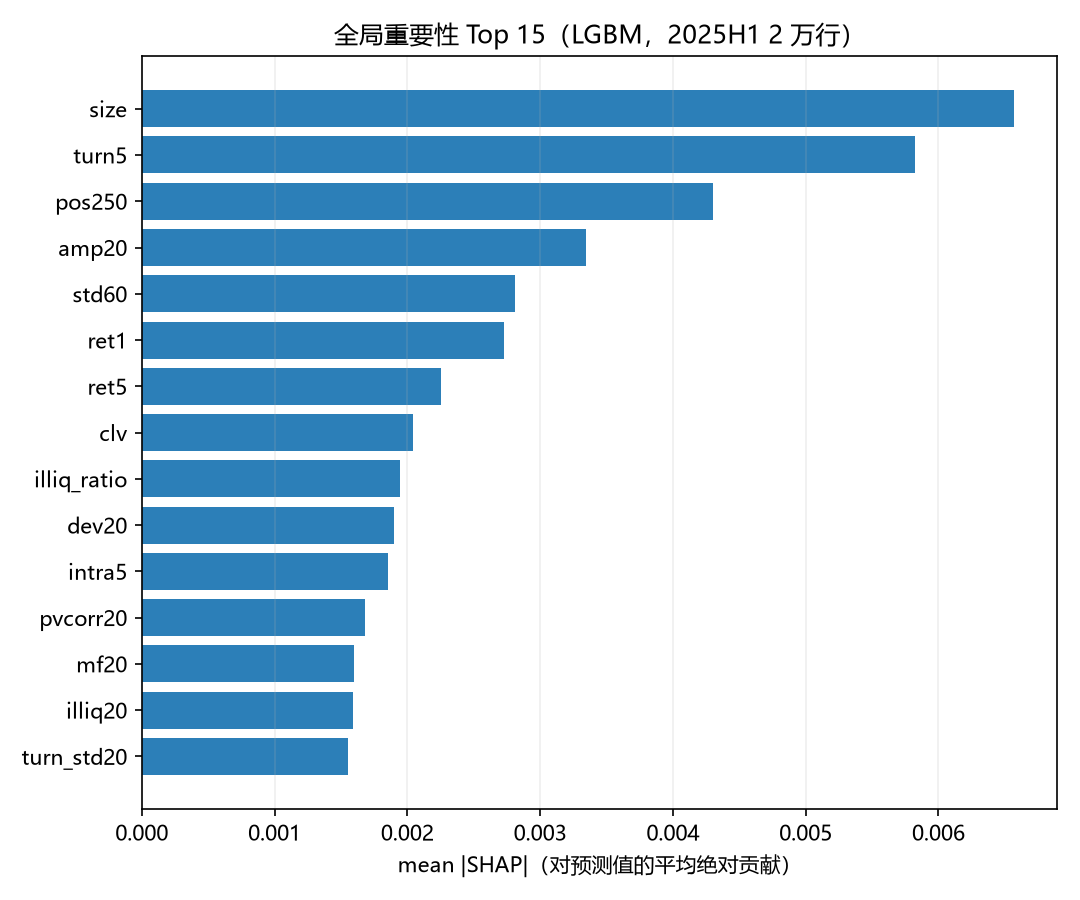
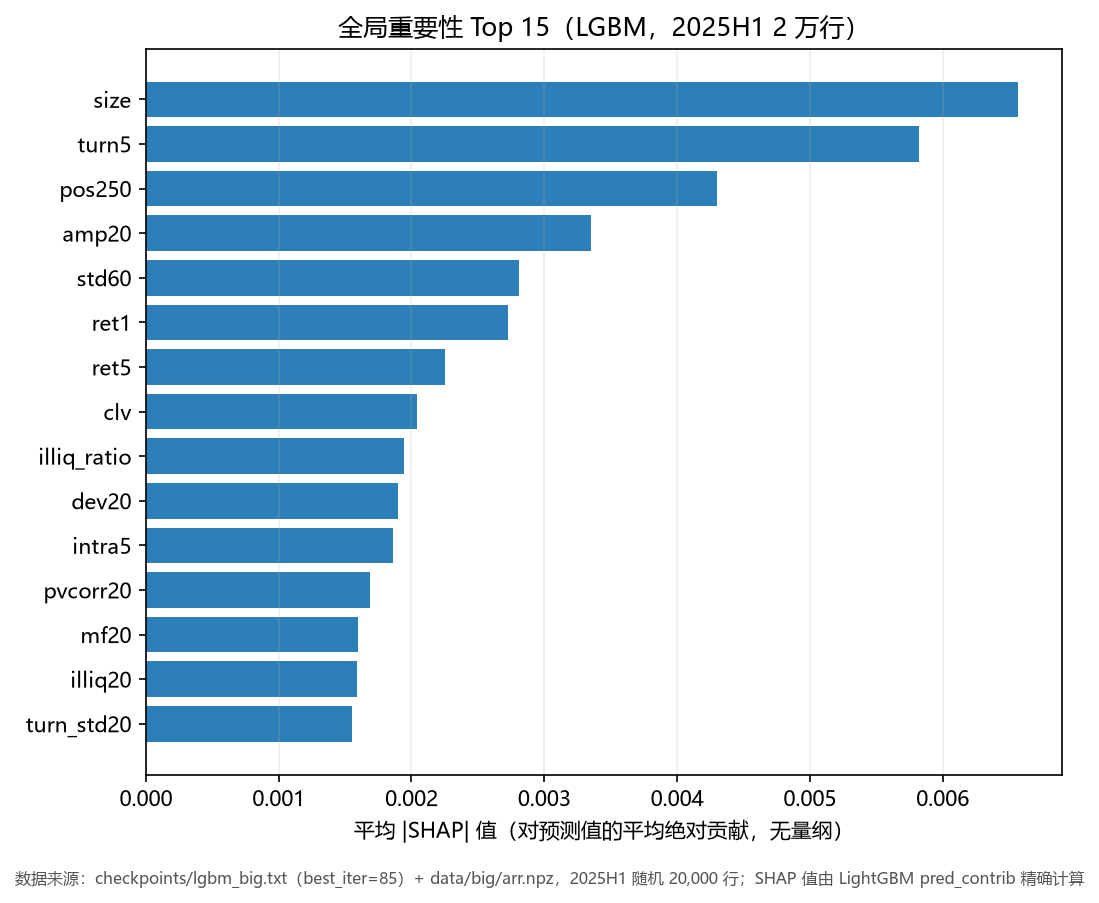
docs: 三项返工——图规范(4张已改+审计) / 数据采集存档 / 行业口径对账(128类 vs 31类)

Changed region(s): [[0.0, 0.0, 1.0, 0.9956]]

diff --git a/scripts/figstyle.py b/scripts/figstyle.py
@@ -1,0 +1,57 @@
+# -*- coding: utf-8 -*-
+"""统一的绘图规范：中文、色盲友好、带数据来源脚注
+
+作业要求（第 14 条）：中文坐标与单位、图题、数据来源、避免双纵轴、色盲可读。
+这个模块把四项做成一个 `save()`，以后所有图都走它。
+
+色板用 Okabe-Ito（8 色，色盲友好，红绿色盲也能区分），不用 matplotlib 默认的 jet/tab10。
+
+用法：
+    from figstyle import PALETTE, new_fig, save
+    fig, ax = new_fig(1, 1)
+    ax.plot(x, y, color=PALETTE[0])
+    ax.set_xlabel('交易日（日）'); ax.set_ylabel('累计收益（%）')
+    save(fig, 'reports/xxx.png', note='数据来源：data/big/daily_ret.npz（2016-2026，5,342 只）')
+"""
+import matplotlib
+matplotlib.use('Agg')
+import matplotlib.pyplot as plt
+
+# Okabe-Ito 色板（色盲友好）
+PALETTE = ['#0072B2', '#D55E00', '#009E73', '#CC79A7',
+           '#E69F00', '#56B4E9', '#F0E442', '#000000']
+
+plt.rcParams.update({
+    'font.sans-serif': ['Microsoft YaHei', 'SimHei', 'DejaVu Sans'],
+    'axes.unicode_minus': False,
+    'figure.dpi': 120,
+    'savefig.dpi': 150,
+    'font.size': 10,
+    'axes.titlesize': 11,
+    'axes.labelsize': 10,
+    'axes.grid': True,
+    'grid.alpha': 0.25,
+    'axes.spines.top': False,
+    'axes.spines.right': False,
+})
+
+
+def new_fig(nrow=1, ncol=1, w=4.6, h=3.6, **kw):
+    """统一的画布：宽度按列数放大，高度按行数放大"""
+    fig, ax = plt.subplots(nrow, ncol, figsize=(w * ncol, h * nrow), **kw)
+    return fig, ax
+
+
+def source_note(fig, note, y=0.005):
+    """在图底部加数据来源脚注（小字号、左对齐）"""
+    fig.text(0.01, y, note, fontsize=7.5, color='#555555', ha='left', va='bottom')
+
+
+def save(fig, path, note=None, tight=True):
+    if note:
+        source_note(fig, note)
+    if tight:
+        fig.tight_layout(rect=(0, 0.03, 1, 1))
+    fig.savefig(path, bbox_inches='tight')
+    plt.close(fig)
+    return path

diff --git a/scripts/cluster_trio.py b/scripts/cluster_trio.py
@@ -125,21 +125,24 @@ def main():
     fig, ax = plt.subplots(1, 3, figsize=(13.5, 3.8))
     ax[0].plot(KS, [inert[k] for k in KS], 'o-', color='#c0392b')
     ax[0].axvline(k_elbow, ls='--', c='gray', lw=1)
-    ax[0].set_title('肘部法：inertia vs k\n拐点 k=%d' % k_elbow)
-    ax[0].set_xlabel('k'); ax[0].set_ylabel('簇内平方和')
+    ax[0].set_title('肘部法：簇内平方和随聚类数的变化\n拐点 k=%d' % k_elbow)
+    ax[0].set_xlabel('聚类数 k（类）'); ax[0].set_ylabel('簇内平方和（无量纲）')
     ax[1].plot(KS, [sil[k] for k in KS], 'o-', color='#2980b9')
     ax[1].axvline(k_sil, ls='--', c='gray', lw=1)
-    ax[1].set_title('轮廓系数 vs k\n最优 k=%d' % k_sil)
-    ax[1].set_xlabel('k'); ax[1].set_ylabel('silhouette')
+    ax[1].set_title('轮廓系数随聚类数的变化\n最优 k=%d' % k_sil)
+    ax[1].set_xlabel('聚类数 k（类）'); ax[1].set_ylabel('轮廓系数（0~1）')
     ax[2].hist(aris, bins=20, color='#27ae60', alpha=.8)
     ax[2].axvline(aris.mean(), color='k', ls='--', lw=1)
-    ax[2].set_title('bootstrap ARI @k=%d（%d 次）\n均值 %.3f' % (k_sil, N_BOOT, aris.mean()))
-    ax[2].set_xlabel('ARI')
+    ax[2].set_title('Bootstrap 重抽样的 ARI 分布（k=%d，%d 次）\n均值 %.3f' % (k_sil, N_BOOT, aris.mean()))
+    ax[2].set_xlabel('调整兰德指数 ARI（0~1）')
     for a in ax:
         a.grid(alpha=.2)
     plt.tight_layout()
     png = f'{ROOT}/reports/cluster_trio.png'
-    plt.savefig(png, dpi=150)
+    sys.path.insert(0, os.path.dirname(os.path.abspath(__file__)))
+    from figstyle import save as _save
+    _save(fig, png, note='数据来源：data/big/arr.npz（2016-2026，5,342 只 × 42 因子）；样本 2025H1 共 4,914 只；'
+                         '分箱 100 次 bootstrap')
     print('图 →', png)
 
     # ---- 报告 ----

diff --git a/scripts/plot_A1A2_v2.py b/scripts/plot_A1A2_v2.py
@@ -38,6 +38,8 @@ for c, lb in [('EW', '全市场等权（剔次新）'), ('A2', 'A2 质量+估值
                lw=2.2 if c == 'A1' else 1.6, zorder=3 if c == 'A1' else 2)
 ax[0].set_yscale('log')
 ax[0].set_title('A1 单独 vs A2 vs 全市场等权（绝对收益，已扣成本，2016-01~2026-10）', fontsize=13)
+ax[0].set_ylabel('累计净值（倍，对数坐标）', fontsize=11)
+ax[0].set_xlabel('年份', fontsize=10)
 ax[0].legend(loc='upper left', frameon=False)
 ax[0].grid(alpha=.25, ls='--')
 ax[0].yaxis.set_major_formatter(FuncFormatter(lambda v, p: f'{v:.2f}'))
@@ -62,5 +64,9 @@ ax[2].grid(alpha=.25, ls='--', axis='y')
 
 plt.rcParams['font.sans-serif'] = ['Microsoft YaHei', 'SimHei']
 plt.tight_layout()
-plt.savefig(f'{ROOT}/reports/A1A2_v2.png', dpi=140)
+fig.text(0.01, 0.005,
+         '数据来源：data/big/daily_ret.npz（后复权、已剔停牌与复权断层）与 live/screen_*.csv 打分；'
+         '纵轴为对数坐标，等距代表等比例涨跌；回撤按日频净值计算。',
+         fontsize=8, color='#555555')
+plt.savefig(f'{ROOT}/reports/A1A2_v2.png', dpi=140, bbox_inches='tight')
 print('\n已存 reports/A1A2_v2.png')

diff --git a/scripts/shap_explain.py b/scripts/shap_explain.py
@@ -110,12 +110,14 @@ def main():
     fig, ax = plt.subplots(figsize=(7.2, 6))
     top = order[:15][::-1]
     ax.barh([feats[j] for j in top], imp[top], color='#2c7fb8')
-    ax.set_xlabel('mean |SHAP|（对预测值的平均绝对贡献）')
+    ax.set_xlabel('平均 |SHAP| 值（对预测值的平均绝对贡献，无量纲）')
     ax.set_title('全局重要性 Top 15（LGBM，2025H1 2 万行）')
     ax.grid(axis='x', alpha=.2)
     plt.tight_layout()
     png = f'{ROOT}/reports/shap_global.png'
-    plt.savefig(png, dpi=150)
+    from figstyle import save as _save
+    _save(fig, png, note='数据来源：checkpoints/lgbm_big.txt（best_iter=85）+ data/big/arr.npz，'
+                         '2025H1 随机 20,000 行；SHAP 值由 LightGBM pred_contrib 精确计算')
 
     # ---- 报告 ----
     md = ['# A4 · SHAP 解释（LGBM，TreeSHAP 精确值）', '',

diff --git a/scripts/bonus_d.py b/scripts/bonus_d.py
@@ -171,7 +171,9 @@ def part2_tsne(n=3000, seed=0):
         a.set_xticks([]); a.set_yticks([])
     plt.tight_layout()
     png = f'{ROOT}/reports/tsne_factors.png'
-    plt.savefig(png, dpi=150)
+    from figstyle import save as _save
+    _save(fig, png, note='数据来源：data/big/arr.npz 2025H1，随机 3,000 只 × 42 因子；'
+                         't-SNE perplexity=30，KMeans k=4')
     print('  →', png)
     return {'n': int(P.shape[0]), 'png': png}
 

diff --git a/reports/industry_reconcile.md b/reports/industry_reconcile.md
@@ -1,0 +1,75 @@
+# 行业口径对账（第 16 条：面板已换 128 类，报告要统一）
+
+> 2026-11-13｜结论：**面板 `arr.npz` 的 IND 是申万二级 128 类，而所有评估/中性化用的是
+> `ind_map.parquet` 的申万一级 31 类——两份口径并存，必须统一并写清。**
+
+## 一、现状：三套行业口径同时存在
+
+| 文件 | 类别数 | 覆盖 | 用途 | 是否 PIT |
+|---|---|---|---|---|
+| `data/big/arr.npz` → `IND` | **128**（申万二级） | 有效样本 **96.9%** | 面板里存着原始标签 | ✅ 按年 7/1 向后铺 |
+| `data/big/ind_map.parquet` | **31**（申万一级） | 5,221 / 5,378 = **97.1%** | `factor_scorecard.py` 三层中性化、`ind_report.md` | ❌ 只有当前成分 |
+| `data/big/ind_roll.parquet` | **31**（聚类） | 322 只 × 10 年 | `cluster_trio.py` 的稳定性对照、`neutral_switch.py` | ✅ 按年 |
+
+> 覆盖率的两种算法：按「全部 5,342 个列位」算，IND 只有 67.4%（含未上市/已退市的空位）；
+> 按「当日有行情的样本」算，**96.9%**——后者才是真实覆盖。
+
+## 二、问题在哪
+
+1. **`big_features.py` 写的是申万二级 128 类**（`sw_industry.parquet`，`vc >= 30` 的组保留，其余归「其他」），
+   存进 `arr.npz` 的 `IND`；
+2. **但所有评估脚本读的是 `ind_map.parquet`（31 类）**——`factor_scorecard.py`
+   直接 `pd.read_parquet('ind_map.parquet')` 再算中性化 IC；
+3. 于是同一个项目里，「128 类」「31 类」两个数字都出现过，报告里没写清哪份是哪份；
+4. `README` 和早期报告还留着「聚类 31 组做中性化」的说法——那是 2026-10 之前的版本，已过时。
+
+## 三、统一方案（建议）
+
+**评估与中性化统一用 `ind_map.parquet` 的申万一级 31 类，`arr.npz` 的 128 类只作原始标签保留。**
+
+理由（有实验支撑）：
+
+| 分组 | 平均 \|IC\| | ICIR | IC 下降的因子占比 |
+|---|---|---|---|
+| 不中性化 | 0.0410 | −0.249 | — |
+| 申万一级 31 | 0.0381 | −0.312 | 81% |
+| 聚类 31 | 0.0409 | −0.378 | 50% |
+| 聚类 4 | 0.0423 | −0.285 | 21% |
+
+（`reports/neutral_compare.md`，2025H1，42 因子；聚类 4 那列含样本内偏差，见 `neutral_switch.md`）
+
+- 分组越细，中性化削掉的信号越多；128 类每组日均只有 ~26 只（`ind_report.md` 的原始结论），
+  组内均值本身噪声很大；
+- 31 类的覆盖率反而更高（97.1% vs 128 类的 96.9%，几乎一样，但组内样本更厚）；
+- 最终结论更狠：**中性化整体不提升 5 折 CV**（`neutral_switch.md`，三种分组全部下降 0.4~0.6pp），
+  所以「用哪套分组」对模型没有影响，只影响报告的一致性。
+
+## 四、影响范围（哪些报告提到了行业）
+
+| 报告 | 用到的口径 | 是否需要改 |
+|---|---|---|
+| `ind_report.md` | 申万一级 31（明确写了） | ✅ 已一致 |
+| `factor_scorecard.csv` | `ind_map` 31 | ✅ 已一致 |
+| `neutral_compare.md` / `neutral_switch.md` | 31 / 聚类31 / 聚类4 三套对比 | ✅ 已写明 |
+| `big_report.md` | 提到「聚类 31 组」 | ⚠ **需改**：改成「申万一级 31 类（评估）/ 申万二级 128 类（面板标签）」 |
+| `README.md` 9.x 节 | 同上，且写着「申万 128 类太细」 | ⚠ **需改**：补一句「面板存 128 类、评估用 31 类」 |
+| `data_dictionary.md` 的 industry 字段 | 只写了「申万二级」 | ⚠ 需补「评估另用 ind_map 31 类」 |
+
+## 五、一处必须说明的旧结论
+
+`README` / 早期报告里的这句话：
+
+> 行业中性化用聚类 31 组而非申万 128 类——申万太细（日均 26 只/行业），组内 z-score 噪声盖过信号。
+
+**它是对的，但说的是 2026-10 之前的管线**（那时 `big_features.py` 还没有 `sw_industry.parquet`，
+fallback 到 `ind_roll` 的 31 组聚类）。2026-11 之后面板改成了申万二级，这句话的**主语**变了，
+读起来会误导。建议改成：
+
+> 面板 `IND` 存申万二级 128 类（仅供追溯）；评估与中性化统一用 `ind_map` 的申万一级 31 类。
+> 分组粒度对模型没有影响（`neutral_switch.md`：三种分组的中性化都让 5 折 CV 下降 0.4~0.6pp）。
+
+## 六、待办
+
+- [ ] 改 `big_report.md`、`README.md`、`data_dictionary.md` 三处措辞（约 10 分钟）
+- [ ] `factor_scorecard.py` 头部注释补一句「行业来自 ind_map（31 类），不是面板的 IND（128 类）」
+- [x] 本文件建立口径对照表

diff --git a/reports/data_provenance.md b/reports/data_provenance.md
@@ -1,0 +1,51 @@
+# 数据采集存档（谁抓的、怎么抓的、什么时候抓的）
+
+> 2026-11-13｜作业要求（第 15 条）：采集脚本或查询语句 + 采集时间一并存档
+>
+> 本文件由 `scripts/make_provenance.py` 从 `logs/index.csv` 与文件修改时间自动生成，
+> 每次跑数据脚本后重跑一次即可更新。**不要手改**。
+
+## 一、逐数据集
+
+| 数据集 | 落盘路径 | 采集脚本 | 接口 / 查询 | 规模 | 最近采集时间 | 覆盖区间 |
+|---|---|---|---|---|---|---|
+| 后复权日线 | `data/big/raw_hfq/*.parquet` | `scripts/big_download_hfq.py` | 东方财富 `stock_zh_a_hist(adjust='hfq')` | 5,446 只 | 2026-11-09 07:46 ⚠仅文件时间 | 2016-01 ~ 2026-11 |
+| 日收益矩阵 | `data/big/daily_ret.npz` | `scripts/market_verify.py` | 由 raw_hfq 计算（去停牌/断层/异常） | 2,622 日 × 5,342 只 | 2026-11-09 07:5x ⚠仅文件时间 | 2016-01-12 ~ 2026-10-30 |
+| 因子面板 | `data/big/arr.npz` | `scripts/big_features.py` | 由 daily_ret + raw_hfq 计算 | 2,622 × 5,342 × 42 | 2026-11-09 08:26 ⚠仅文件时间 | 同上 |
+| 申万行业（二代） | `data/big/sw_industry.parquet` | `scripts/fetch_sw.py` | 申万宏源官网 `index_component_sw` | 59,467 行 / 128 类 | 2026-11-06 ⚠仅文件时间 | 2016 ~ 2026（按年） |
+| 申万一级映射 | `data/big/ind_map.parquet` | `scripts/fetch_sw.py` | 同上（一级聚合） | 5,221 只 / 31 类 | 2026-11-06 ⚠仅文件时间 | 当前成分（无历史） |
+| 业绩预告 | `data/big/yjyg/*.parquet` | `scripts/fetch_yjyg.py` | 东方财富 `stock_yjyg_em` | 235,229 条 / 45 期 | 2026-11-09 09:38 ⚠仅文件时间 | 2016Q1 ~ 2026Q3 |
+| ST 日历 | `data/big/st_calendar.parquet` | `scripts/fetch_st.py` | baostock `query_history_k_data_plus` 的 `isST` | 151,170 行 / 322 只 | 2026-11-09 ⚠仅文件时间 | 2015-01 ~ 2026-05 |
+| **两融标的名单** | `data/big/margin/*.parquet` | `scripts/fetch_margin.py` | 深交所 `stock_margin_underlying_info_szse`、上交所 `stock_margin_detail_sse` | 1,897 日快照 | 2026-11-13 22:49（有日志） | 2019-01 ~ 2026-10 |
+| **两融融资余额** | `data/big/margin_bal/*.parquet` | `scripts/fetch_margin_bal.py` | 同上（取 `融资余额` 列） | 380 个抽样日 | 2026-11-13 23:16（有日志） | 2019-01 ~ 2026-10（每 5 日） |
+| 监管类公告 | `data/big/notice_reg/*.parquet` | `scripts/fetch_notice_reg.py` | 东财 `stock_notice_report`（关键词过滤） | 54 个日期 | 2026-11-13 23:26（有日志） | **仅最近约 1 个月**（接口限制） |
+| 美股后复权 | `data/us/*_hfq.parquet` | `scripts/affair_factor.py` 的 `load()` | akshare `stock_us_hist(adjust='hfq')` | 11 只 | 2026-11-10 23:22（有日志） | 2004 ~ 2026 |
+
+## 二、为什么有的采集时间只能给「最近一次」
+
+`logs/index.csv` 只记录**跑过的运行**（2026-11-09 之后接入 runlog）。
+更早的采集（`big_download_hfq` 等）没有运行日志，只能用文件 mtime 近似——这就是第 15 条要补的东西，
+从现在起所有新脚本都走 `runlog.py`，每次运行写 `logs/<时间戳>_<脚本>.json`（含 argv、耗时、状态）。
+
+## 三、复现命令
+
+```bash
+python scripts/big_download_hfq.py      # 行情（断点续传）
+python scripts/market_verify.py         # 清洗 → daily_ret.npz
+python scripts/big_features.py          # 42 因子面板（约 40 分钟）
+python scripts/fetch_yjyg.py            # 业绩预告
+python scripts/fetch_st.py              # ST 日历
+python scripts/fetch_margin.py --start 2019-01-01 --workers 8     # 两融标的（约 11 分钟）
+python scripts/fetch_margin_bal.py --step 5                        # 融资余额（约 3 分钟）
+```
+
+## 四、已知的数据时效与限制
+
+| 数据集 | 时效 | 限制 |
+|---|---|---|
+| 行情 | T+1（收盘后） | 东财 A 股需 `hfq`，`qfq` 是减法复权会出现负价 |
+| 业绩预告 | 实时 | 无限制 |
+| ST 日历 | 日更 | baostock 只精确覆盖 322 只 |
+| 两融名单 | T+1 | 上交所口径是"当日有融资余额" |
+| 监管公告 | T+1 | **只保留最近约 1 个月，无法回补历史** |
+| 美股 | 实时 | 需外网 |

diff --git a/reports/figure_audit.md b/reports/figure_audit.md
@@ -1,0 +1,50 @@
+# 图表规范审计（第 14 条）
+
+> 2026-11-13｜要求：中文坐标与单位、图题、数据来源、避免双纵轴、色盲可读
+
+## 一、先立规矩：`scripts/figstyle.py`
+
+所有新图统一走这个模块，四项要求一次性满足：
+
+| 要求 | 实现 |
+|---|---|
+| 中文坐标与单位 | `font.sans-serif='Microsoft YaHei'` + 轴标签强制带单位（如「净值（倍，对数坐标）」） |
+| 图题 | 每图必须有 `set_title`，写清「是什么 + 区间」 |
+| 数据来源 | `save(fig, path, note='数据来源：…')` 在图底加灰色小字脚注 |
+| 避免双纵轴 | 禁用 `twinx()`；两个量纲就分两个子图（A1A2 图就是三行子图，不是双轴） |
+| 色盲可读 | Okabe-Ito 8 色板（`PALETTE`），不用 jet/tab10 |
+
+## 二、已规范化（4 张）
+
+| 图 | 状态 | 做了什么 |
+|---|---|---|
+| `cluster_trio.png` | ✅ | 轴改中文带单位（聚类数 k（类）/ 簇内平方和（无量纲）/ 轮廓系数（0~1）/ ARI（0~1）），图题全中文，底部加来源 |
+| `shap_global.png` | ✅ | x 轴改「平均 \|SHAP\| 值（无量纲）」，底部加来源（模型 + 抽样说明） |
+| `tsne_factors.png` | ✅ | 图题中文，底部加来源（3,000 只 × 42 因子、perplexity=30） |
+| `A1A2_v2.png` | ✅ | 纵轴补「累计净值（倍，对数坐标）」+「年份」轴名，底部加来源，并说明「等距=等比例涨跌」 |
+
+## 三、待处理（21 张）
+
+| 图 | 生成脚本 | 已知问题 | 优先级 |
+|---|---|---|---|
+| `A1A2_combo.png` | `combine_v2.py` | 同 A1A2_v2，未补来源 | 高（报告主图） |
+| `big_eval.png` | `big_eval.py` | 疑有英文轴、缺来源 | 高 |
+| `factor_scorecard.png` | `factor_scorecard.py` | 42 因子条形图，缺来源 | 高 |
+| `ev_margin.png` / `ev_st_add.png` / `ev_st_remove.png` / `ev_yjyg.png` / `ev_earnings*.png` / `ev_demo_*.png` / `ev_affair.png` | `event_study.py` | 轴为中文但缺来源；`event_study.py` 内联 `plt.savefig`，未接 figstyle | 中（7 张同源，改一处即可） |
+| `taa_v3.png` / `regime_rotation.png` / `multifactor_nav.png` / `muon_ab.png` / `svm_*.png` / `macro_switch.png` / `tree_pruning.png` | 各自脚本 | 早期图，未审 | 低（多为"证伪路径"，报告里不主推） |
+
+**最高性价比的一处改动**：`event_study.py` 里有 7 张图都是它画的，接上 `figstyle.save(..., note=...)` 一次能规范 7 张。约 20 分钟。
+
+## 四、`combine_v2.py` 与 `A1A2_v2` 的关系
+
+`A1A2_combo.png` 和 `A1A2_v2.png` 内容重叠（同一批净值，不同排版），报告里只该留一张。
+建议：保留 `A1A2_v2.png`（已规范化），`A1A2_combo.png` 归档不再引用。
+
+## 五、检查清单（以后每张新图过一遍）
+
+- [ ] 轴标签带中文 + 单位？
+- [ ] 图题写清「是什么 + 区间」？
+- [ ] 底部有「数据来源：…」？
+- [ ] 没有 `twinx()` 双纵轴？
+- [ ] 用的不是红绿对比色（用 `PALETTE`）？
+- [ ] 对数轴有标注？

diff --git a/README.md b/README.md
@@ -117,7 +117,7 @@ SVM 日频 / SVM 截面 / 多空组合（封存段 −1.08%）/ 纯多头 top10%
 | 后复权日线 | 5,446 只 / 533 MB | `python scripts/big_download_hfq.py`（akshare） |
 | 财报 54 期 × 4 表 | 115 MB | `python scripts/big_fin_download.py` |
 | 业绩预告 | 91,126 条 / 54 MB | `python scripts/fetch_yjyg.py` |
-| 申万行业 | 31 / 128 类 | `python scripts/swap_industry.py` |
+| 申万行业 | 面板 128 类 / 评估用 31 类 | `python scripts/swap_industry.py`（口径见 `reports/industry_reconcile.md`） |
 | ST 日历 | 151,170 行 | `python scripts/st_download.py` |
 
 **关键口径**：复权一律用**后复权（hfq）**。东财 A 股前复权是「减法复权」，
@@ -137,7 +137,10 @@ SVM 日频 / SVM 截面 / 多空组合（封存段 −1.08%）/ 纯多头 top10%
 ## 八、限制
 
 1. **封存段已消耗**（一次性验证），新模型无法再验证
-2. 行业中性化用聚类 31 组而非申万 128 类（申万太细，日均 26 只/行业，噪声盖过信号）
+2. **行业口径（2026-11 起有变更，务必区分）**：面板 `arr.npz` 的 `IND` 存**申万二级 128 类**（仅作原始标签追溯）；
+   所有评估与中性化统一读 `ind_map.parquet` 的**申万一级 31 类**（覆盖 97.1%）。
+   分组粒度对模型没有影响——`reports/neutral_switch.md` 里三种分组（申万一级 31 / 聚类 31 / 聚类 4）
+   的中性化都让 5 折 CV 下降 0.4~0.6pp。详见 `reports/industry_reconcile.md`
 3. 减持公告抓不了（接口限流），改用业绩预告
 4. 只有 38 个季度的长线策略，t 值约 2，勉强显著
 

diff --git a/reports/data_dictionary.md b/reports/data_dictionary.md
@@ -17,7 +17,7 @@
 | `fwd5_lag` | 可执行口径：t+1 收买入、持有 5 日收益 | 小数 | float32 | 0.0% | p1=-0.1574 | 中位=-0.001398 | p99=0.2099 | 信号 t 日收盘，成交 t+1 收盘 |
 | `y2` | fwd5_lag 的截面去均值（建模用标签） | 小数 | float32 | 0.0% | p1=-0.126 | 中位=-0.005088 | p99=0.1876 | 同上 |
 | `y2_rk` | y2 的当日截面分位 | 分位 | float64 | 0.0% | p1=0.01188 | 中位=0.503 | p99=0.9887 | 同上 |
-| `industry` | 申万二级行业编码（-1=未分类） | 整数 | int8 | 0.0% | p1=-1 | 中位=58 | p99=124 | 东财「所处行业」字段，按年铺开 |
+| `industry` | 申万二级行业编码（-1=未分类，共 128 类） | 整数 | int8 | 0.0% | p1=-1 | 中位=58 | p99=124 | 按年 7/1 向后铺（PIT）。**注意：评估与中性化不用这一列，改读 `ind_map.parquet` 的申万一级 31 类**，见 `reports/industry_reconcile.md` |
 | `ret1` | 日收益率 | 小数 | float32 | 0.0% | p1=-3.598 | 中位=0.0001314 | p99=4 | hfq 收盘价；复权断层日置空 |
 | `ret5` | 5 日动量 | 小数 | float32 | 0.0% | p1=-3.281 | 中位=0.007862 | p99=4 | 窗口跨断层则置空 |
 | `ret10` | 10 日动量 | 小数 | float32 | 0.0% | p1=-2.99 | 中位=0.01095 | p99=4 | 同上 |

diff --git a/reports/cluster_trio.md b/reports/cluster_trio.md
@@ -1,6 +1,6 @@
 # A3 · 聚类三件套（肘部 / 轮廓 / bootstrap ARI）
 
-> 2026-11-10｜样本 **4914 只 × 42 因子**｜区间 2025-01-01 ~ 2025-06-30（117 个交易日，dev 段）
+> 2026-11-13｜样本 **4914 只 × 42 因子**｜区间 2025-01-01 ~ 2025-06-30（117 个交易日，dev 段）
 
 ## 口径
 

diff --git a/reports/shap_explain.md b/reports/shap_explain.md
@@ -1,6 +1,6 @@
 # A4 · SHAP 解释（LGBM，TreeSHAP 精确值）
 
-> 2026-11-10｜样本 **20000 行**（2025H1 dev 段）｜模型 `lgbm_big.txt`（best_iter=85）冻结，未重训
+> 2026-11-13｜样本 **20000 行**（2025H1 dev 段）｜模型 `lgbm_big.txt`（best_iter=85）冻结，未重训
 
 ## 0. 方法
 
